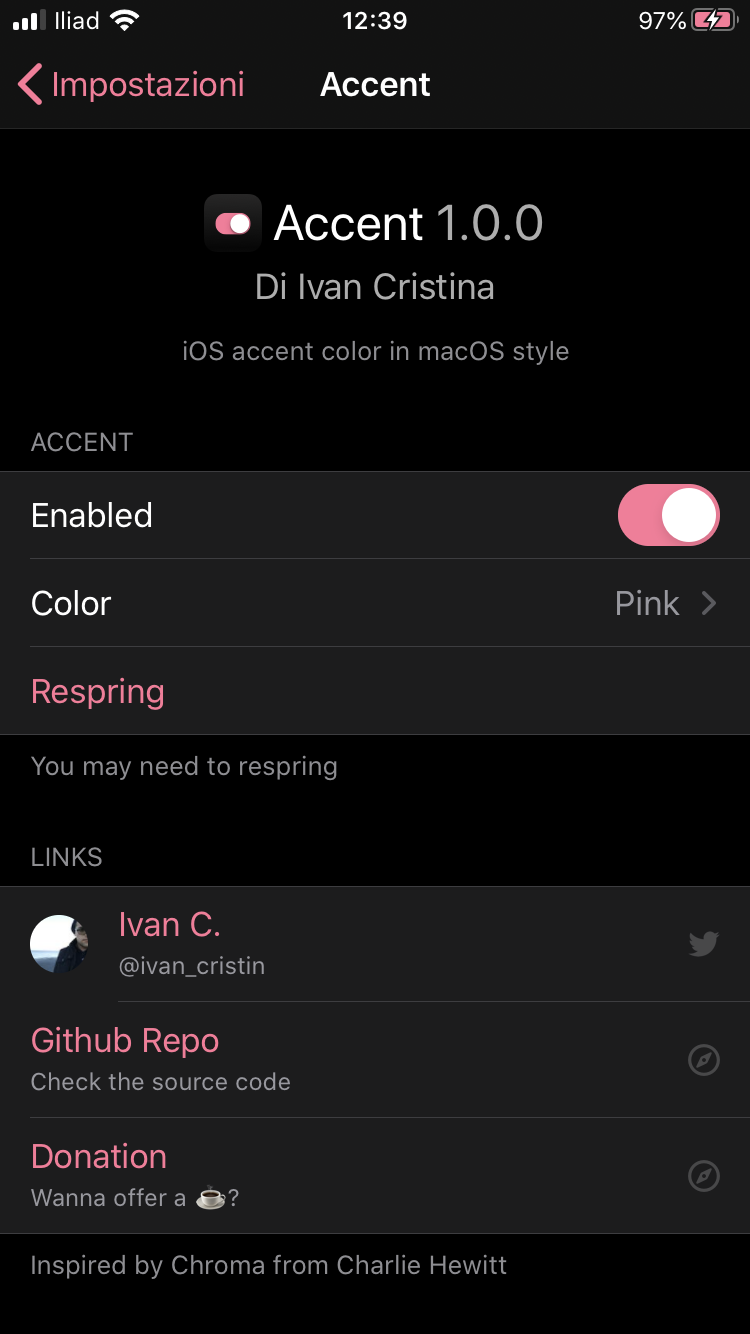
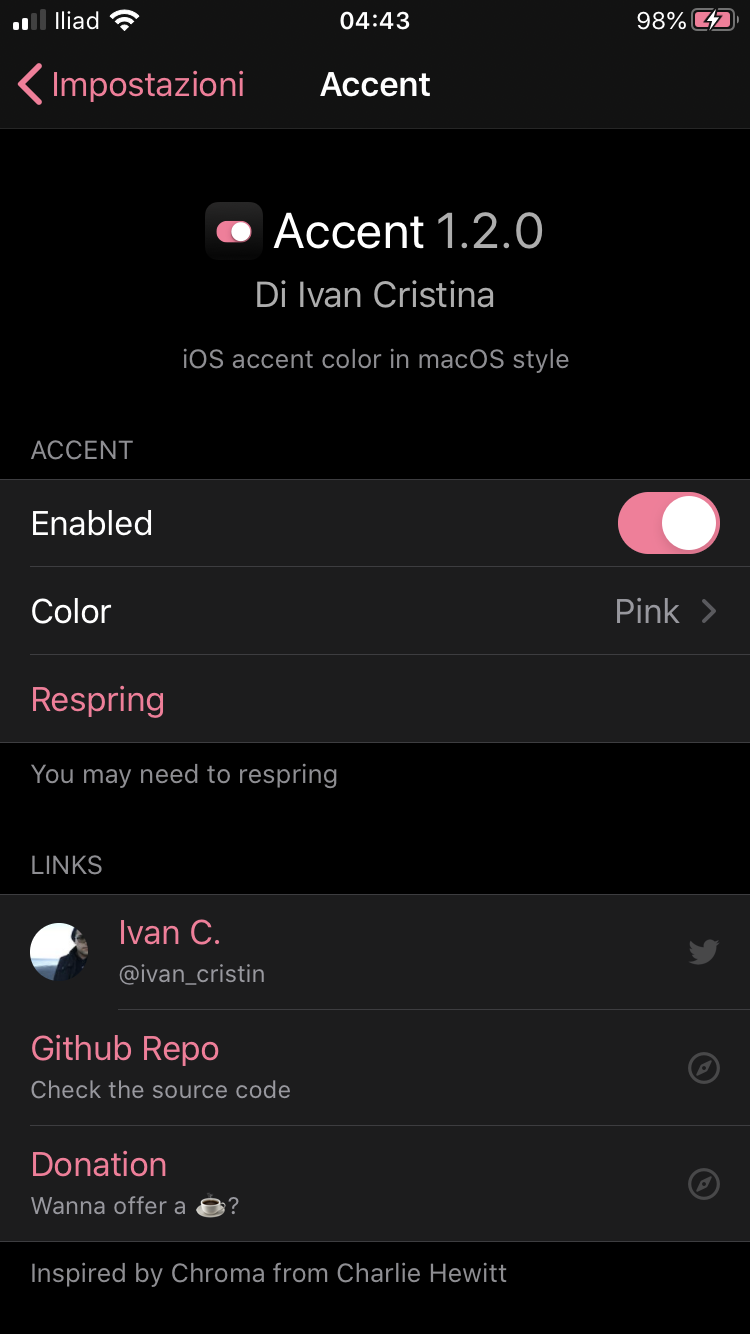
Accent 1.2.0

diff --git a/docs/depiction/web/com.ivanc.accent.html b/docs/depiction/web/com.ivanc.accent.html
@@ -5,7 +5,7 @@
     <meta name="viewport" content="width=device-width, initial-scale=1, minimum-scale=1.0, user-scalable=0">
     <title>Accent</title>
     <link rel="stylesheet" type="text/css" href="../../web/index.css">
-    <style>a, .tint, .table-btn:after {color: ff779a} .active {color: ff779a;border-bottom: 2px solid ff779a;}</style>
+    <style>a, .tint, .table-btn:after {color: #ff779a} .active {color: #ff779a;border-bottom: 2px solid #ff779a;}</style>
     <script src="../../web/index.js"></script>
     <meta name="description" content="A package by Ivan Cristina  for iOS 7 to 13.3.">
     <meta property="og:title" content="Accent">
@@ -15,7 +15,7 @@
     <meta name="twitter:title" content="Accent">
     <meta name="twitter:description" content="A package by Ivan Cristina  for iOS 7 to 13.3.">
     <meta name="twitter:image" content="https://ivancristina.github.io/repo/assets/com.ivanc.accent/banner.png">
-    <meta name="theme-color" content="ff779a">
+    <meta name="theme-color" content="#ff779a">
 </head>
 <body>
     <div class="body">
@@ -37,12 +37,11 @@
             <div class="md_view">
                 <p><p>Customise your iOS default accent in macOS style, choosing between some preset colours. Simple, clean, and most importantly <a href="https://github.com/ivancristina/accent">open source</a>!</p>
 <p>A color picker is <strong>not</strong> in plan, due to the philosophy of the tweak itself.</p>
-<p>A respring may be useful for an optimal result</p>
+<p>A respring may be useful for an optimal result.</p>
 <h3>Supported colors</h3>
 <p>🔵 Blue, 🟣 Purple, 🔘 Pink (Default), 🔴 Red, 🟠 Orange, 🟡 Yellow, 🟢 Green, ⚪ Gray</p>
 <h3>To-do List</h3>
 <ul>
-<li>theme <code>com.apple.mobilenotes</code> (apparently not using <code>UIColor.h</code> tints)</li>
 <li>theme message bubbles (<code>CKBaloonView</code>)</li>
 </ul>
 </p>
@@ -56,7 +55,7 @@
                 </div>
                 <div class="cell">
                     <div class="title">Version</div>
-                    <div class="text">1.1.0</div>
+                    <div class="text">1.2.0</div>
                     <br><br>
                 </div>
                 <div class="cell">
@@ -76,6 +75,10 @@
         </div>
         <div class="changelog">
             <div class="changelog_entry">
+                <h4>1.2.0</h4>
+                <div class="md_view"><p>Added support to Notes.app (com.apple.mobilenotes).</p>
+</div>
+            </div><div class="changelog_entry">
                 <h4>1.1.0</h4>
                 <div class="md_view"><p>Assing support to UIAlertViews, fixed a bug causing tint coloring to happen even in disable state.</p>
 </div>

diff --git a/docs/404.html b/docs/404.html
@@ -5,7 +5,7 @@
     <meta name="viewport" content="width=device-width, initial-scale=1, minimum-scale=1.0, user-scalable=0">
     <title>Ivan&#x27;s Repo</title>
     <link rel="stylesheet" type="text/css" href="web/index.css">
-    <style>a, .tint {color: FF779A} .active {color: FF779A</style>
+    <style>a, .tint {color: #FF779A} .active {color: #FF779A</style>
     <meta name="description" content="Coding while eating. Don&#x27;t expect much">
     <meta property="og:title" content="Ivan&#x27;s Repo">
     <meta property="og:description" content="Coding while eating. Don&#x27;t expect much">
@@ -14,7 +14,7 @@
     <meta name="twitter:title" content="Ivan&#x27;s Repo">
     <meta name="twitter:description" content="Coding while eating. Don&#x27;t expect much">
     <meta name="twitter:image" content="https://ivancristina.github.io/repo/CydiaIcon.png">
-    <meta name="theme-color" content="FF779A">
+    <meta name="theme-color" content="#FF779A">
 </head>
 <body>
     <div class="body">

diff --git a/docs/index.html b/docs/index.html
@@ -5,7 +5,7 @@
     <meta name="viewport" content="width=device-width, initial-scale=1, minimum-scale=1.0, user-scalable=0">
     <title>Ivan&#x27;s Repo</title>
     <link rel="stylesheet" type="text/css" href="web/index.css">
-    <style>a, .tint {color: FF779A} .active {color: FF779A</style>
+    <style>a, .tint {color: #FF779A} .active {color: #FF779A</style>
     <meta name="description" content="Coding while eating. Don&#x27;t expect much">
     <meta property="og:title" content="Ivan&#x27;s Repo">
     <meta property="og:description" content="Coding while eating. Don&#x27;t expect much">
@@ -14,7 +14,7 @@
     <meta name="twitter:title" content="Ivan&#x27;s Repo">
     <meta name="twitter:description" content="Coding while eating. Don&#x27;t expect much">
     <meta name="twitter:image" content="https://ivancristina.github.io/repo/CydiaIcon.png">
-    <meta name="theme-color" content="FF779A">
+    <meta name="theme-color" content="#FF779A">
 </head>
 <body>
     <div class="body">

diff --git a/docs/assets/com.ivanc.accent/description.md b/docs/assets/com.ivanc.accent/description.md
@@ -2,11 +2,10 @@ Customise your iOS default accent in macOS style, choosing between some preset c
 
 A color picker is **not** in plan, due to the philosophy of the tweak itself.
 
-A respring may be useful for an optimal result
+A respring may be useful for an optimal result.
 
 ### Supported colors
 🔵 Blue, 🟣 Purple, 🔘 Pink (Default), 🔴 Red, 🟠 Orange, 🟡 Yellow, 🟢 Green, ⚪ Gray
 
 ### To-do List
-- theme `com.apple.mobilenotes` (apparently not using `UIColor.h` tints)
 - theme message bubbles (`CKBaloonView`)
